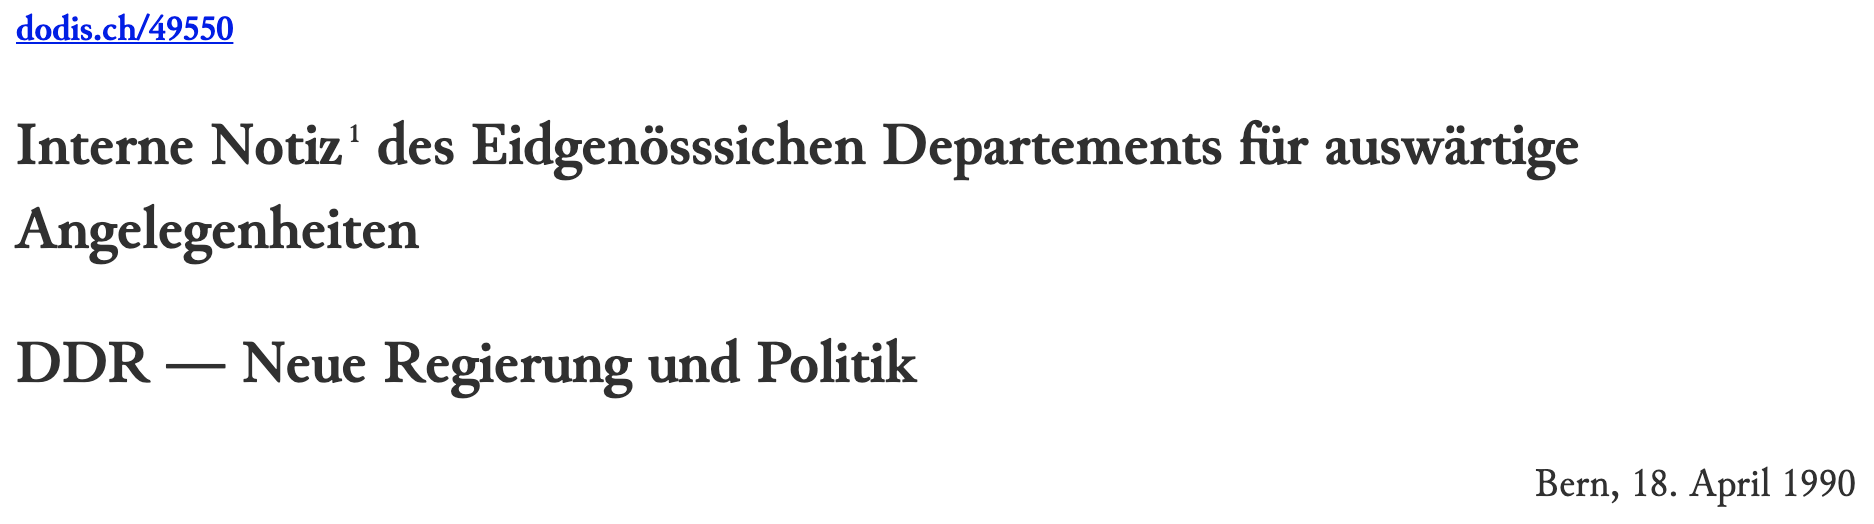
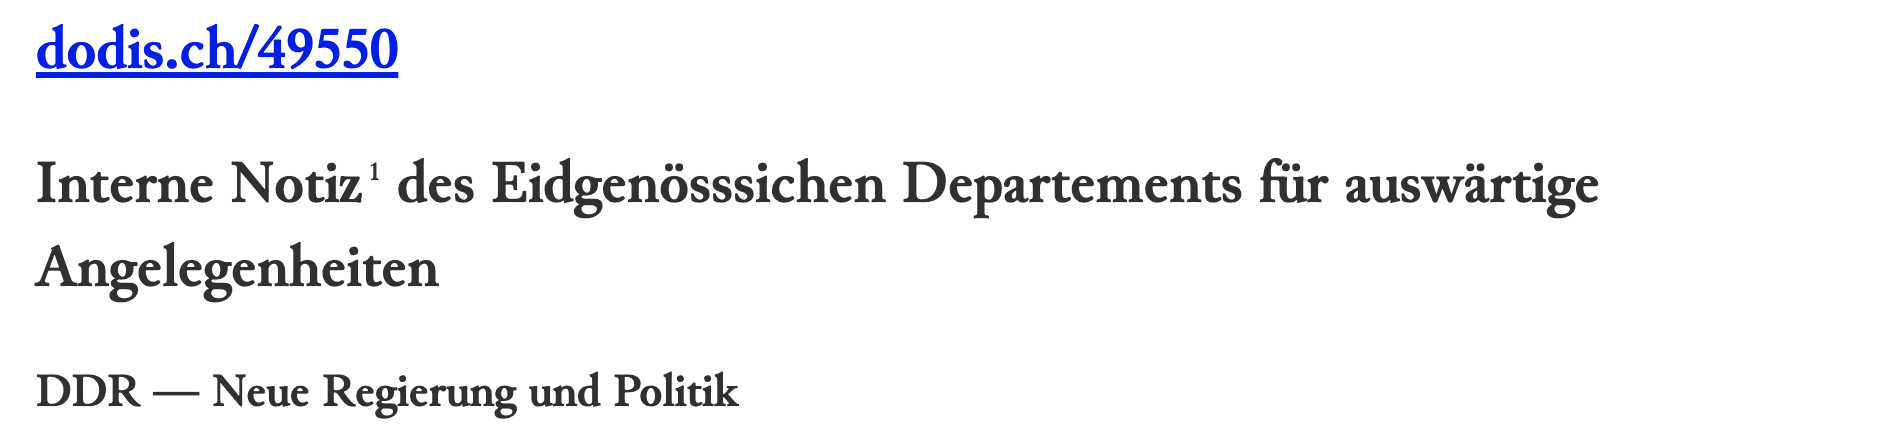
Small fixes to assignments

diff --git a/assignments/A1.md b/assignments/A1.md
@@ -1,6 +1,6 @@
 # Assignments for the first week
 
-Screenshots and XML examples below are taken from [data/dodis/49550.xml](data/dodis/49550.xml). To compare, use this document as basis for your work.
+Screenshots and XML examples below are taken from [data/dodis/49550.xml](../data/dodis/49550.xml). To compare, use this document as basis for your work.
 
 ## 1. Simple renditions with `model`
 
@@ -31,12 +31,17 @@ The main heading is structured as follows:
 </head>
 ```
 
-We would like to:
+We would like to show the titles as headings (using the `heading` behaviour).
 
-1. Show the titles as headings (using the `heading` behaviour)
-2. The `<ref>` should be less prominent: decrease font size to `19px`
+![Screenshot](A1_heading.png)
 
-![A1_heading.png](A1_heading.png)
+### 2.2 Make the `<ref>` link in the header less prominent
+
+Decrease the font size to e.g. `19px` and show as right-aligned block.
+
+Note: we only want this to apply to `<ref>`s with a `parent::head`, not the refs appearing elsewhere inline in the text.
+
+![Screenshot](A1_heading2.png)
 
 ## 3. Passing parameters to behaviours
 
@@ -113,14 +118,14 @@ The popover created in 4.1 is shown, but the displayed content looks very messy 
 
 We thus have to define a spec for `person` and make sure to only output the elements we actually want to display to the user.
 
-## 5.1 Limit output for `person` to the full name
+### 5.1 Limit output for `person` to the full name
 
 * Create a spec for `person`
 * As we want to output a specific sequence of items for each `person`, add a `modelSequence` to the spec
 * Within the `modelSequence`, add a `model` to output `persName[@type='full']` as first item
 * To select `persName[@type='full']`, set the `content` parameter of the model to point to this target element - otherwise we would again get the entire `person` record
 
-## 5.2 Show the optional `note` about the person
+### 5.2 Show the optional `note` about the person
 
 Some `person` records have an additional `note` with a short description. We would like to see this next to the full name.
 
@@ -137,3 +142,18 @@ Some `person` records have an additional `note` with a short description. We wou
     2. or extend the element spec for `note` to have a special model for a `note` appearing within a `person`. In this case we want to apply behaviour `inline` instead of `note`
 
     ![Screenshot](A1_persName-note2.png)
+
+### 5.3 Add link to the Dodis record for the person
+
+The `person` elements also have a link leading to an extended record: 
+
+```xml
+<idno type="URI">https://dodis.ch/P19511</idno>
+```
+
+We would like to output this as third item in our `modelSequence`.
+
+* add another `model` to the `modelSequence` pointing to the `idno`
+* create a spec for `idno` and use behaviour `link` to generate a link. It takes a `uri` parameter for the link target
+
+![Screenshot](A1_idno.png)
